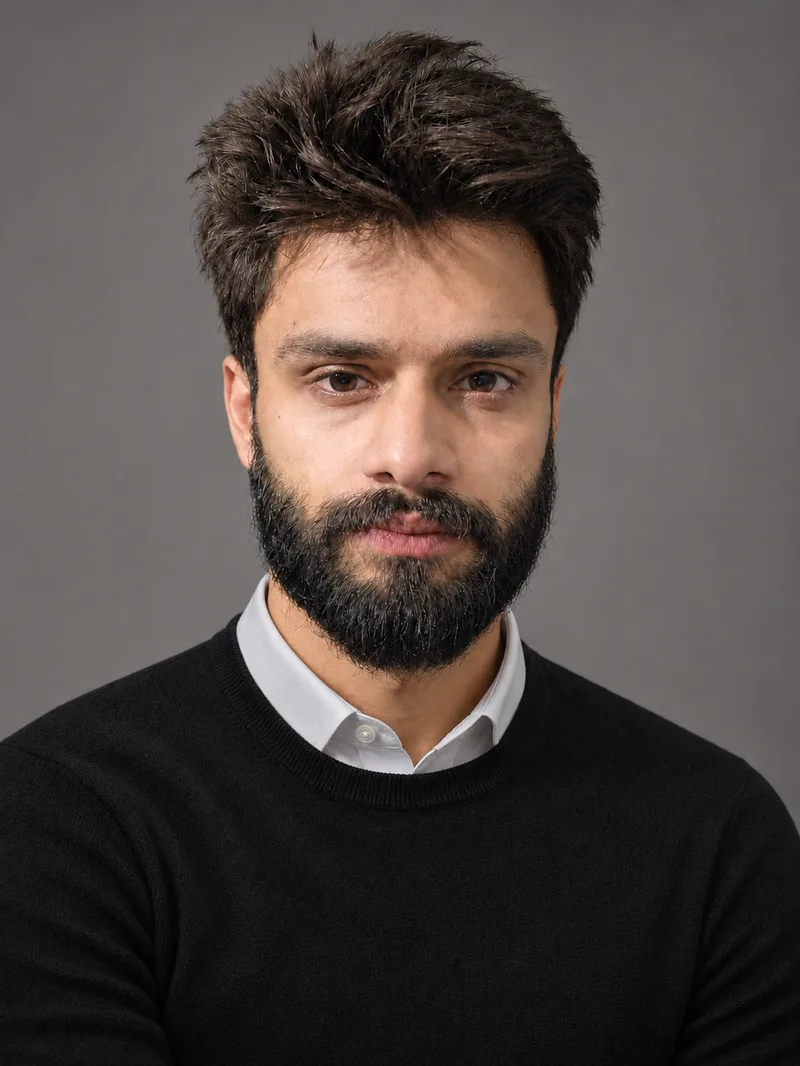
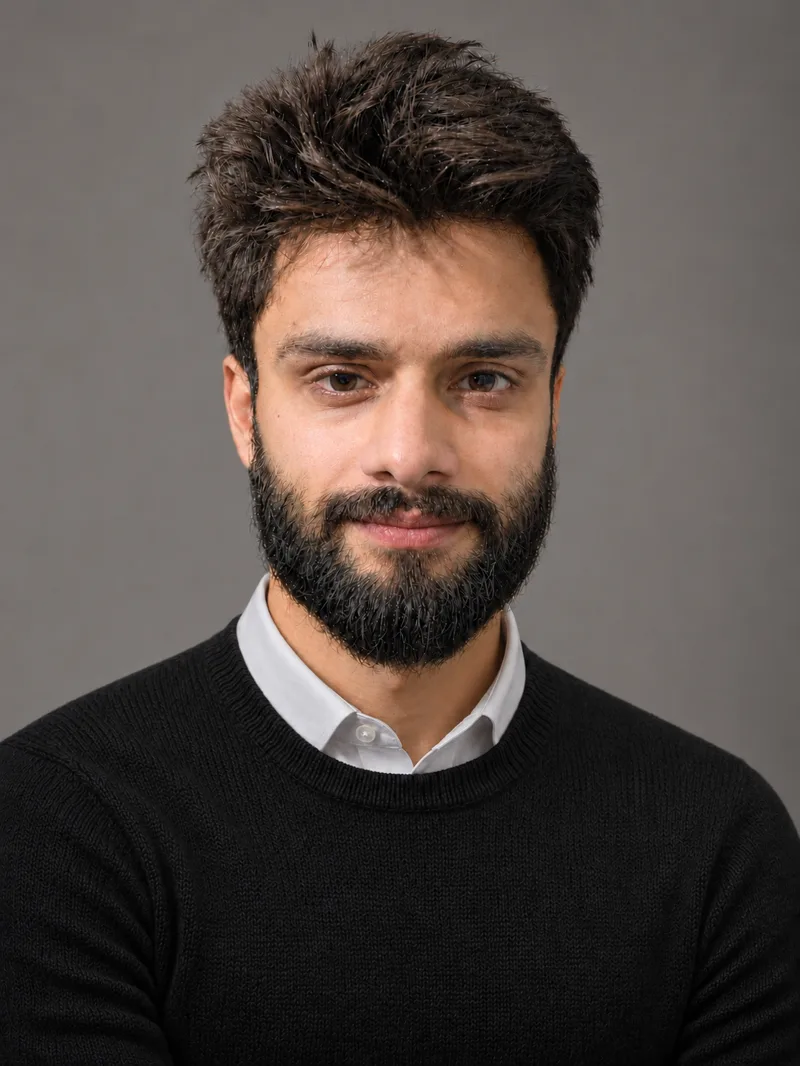
About: remove Zohaib; new photo for Zayn

diff --git a/components/pages/about.ts b/components/pages/about.ts
@@ -55,7 +55,7 @@ export const HTML = `<svg width="0" height="0" style="position:absolute" aria-hi
   </div>
 
   <p class="hero__lede">
-    <strong>Ten people</strong> who take real estate marketing personally, not one more logo in an agency roster.
+    <strong>Nine people</strong> who take real estate marketing personally, not one more logo in an agency roster.
   </p>
 
   <div class="hero__acts">
@@ -77,7 +77,7 @@ export const HTML = `<svg width="0" height="0" style="position:absolute" aria-hi
       <div class="story__facts" data-rise>
         <span>Founded 2019</span>
         <span>Los Angeles, CA</span>
-        <span>Team of 10</span>
+        <span>Team of 9</span>
         <span>Real Estate Specialists</span>
       </div>
     </div>
@@ -135,7 +135,7 @@ export const HTML = `<svg width="0" height="0" style="position:absolute" aria-hi
     <div class="sec-head">
       <div>
         <span class="eyebrow" data-rise>The People</span>
-        <h2 class="h2" data-rise>Ten people, one studio.</h2>
+        <h2 class="h2" data-rise>Nine people, one studio.</h2>
       </div>
       <p class="lede" data-rise>Every project runs through this same small group. Click anyone to read their full story.</p>
     </div>
@@ -240,16 +240,6 @@ export const HTML = `<svg width="0" height="0" style="position:absolute" aria-hi
         </div>
       </div>
 
-      <div class="tm-card" data-open-team="9">
-        <div class="tm-card__frame"><img src="/images/pg/zohaib.webp" alt="Zohaib"></div>
-        <div class="tm-card__wash"></div>
-        <span class="tm-card__hint"><svg width="14" height="14" viewBox="0 0 17 10"><use href="#arw"/></svg></span>
-        <div class="tm-card__body">
-          <span class="tm-card__nick">The Engineer</span>
-          <h4 class="tm-card__name">Zohaib</h4>
-          <p class="tm-card__role">Full Stack Developer &amp; AI Engineer</p>
-        </div>
-      </div>
     </div>
   </div>
 </section>

diff --git a/public/scripts/pages/about.js b/public/scripts/pages/about.js
@@ -119,13 +119,6 @@ const TEAM = [
     bio:"Johnny keeps creative projects on track. He turns client goals into clear plans, coordinates designers, editors and developers, and makes sure work lands on time.",
     tags:['Project Management','Creative Production','Client Communication'],
     quote:''
-  },
-  {
-    name:'Zohaib', nick:'The Engineer', role:'Full Stack Developer &amp; AI Engineer',
-    img:'/images/pg/zohaib.webp',
-    bio:"Zohaib builds the studio's websites and web apps end to end, from front-end design to back-end systems, and develops the AI features and automations that power client projects.",
-    tags:['Full Stack Development','AI Engineering','Web Apps'],
-    quote:''
   }
 ];
 
